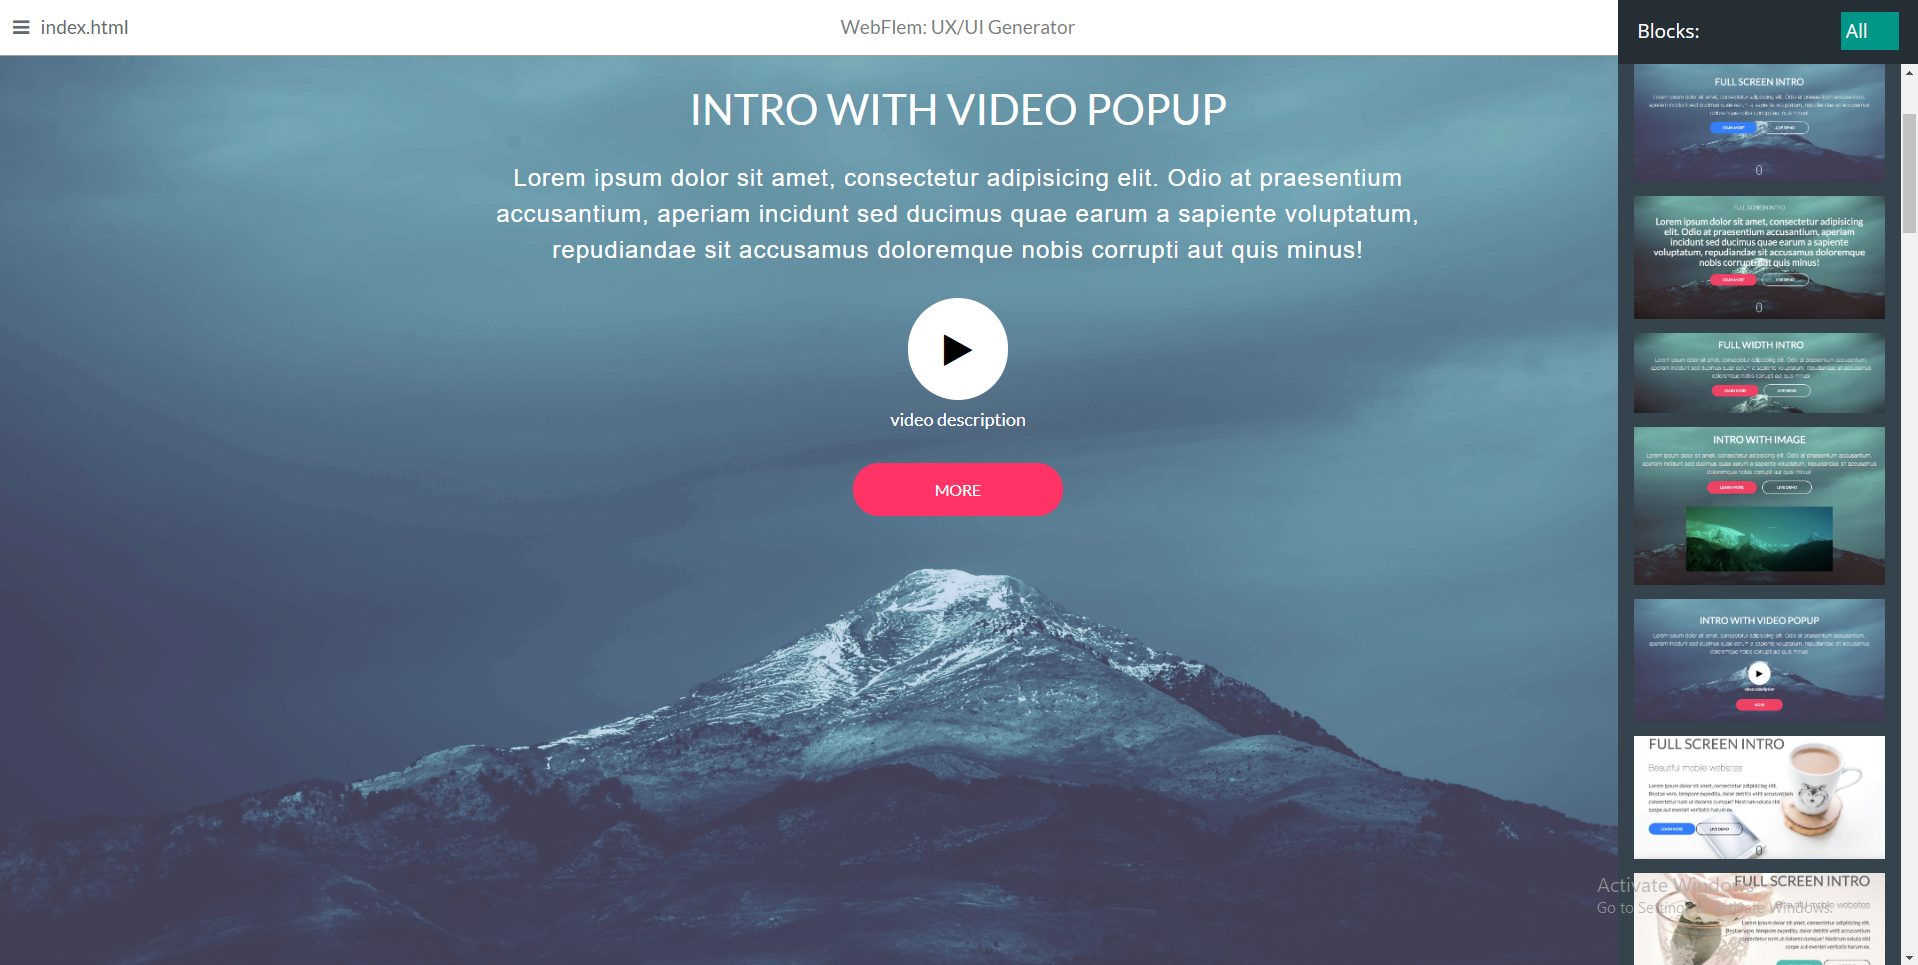
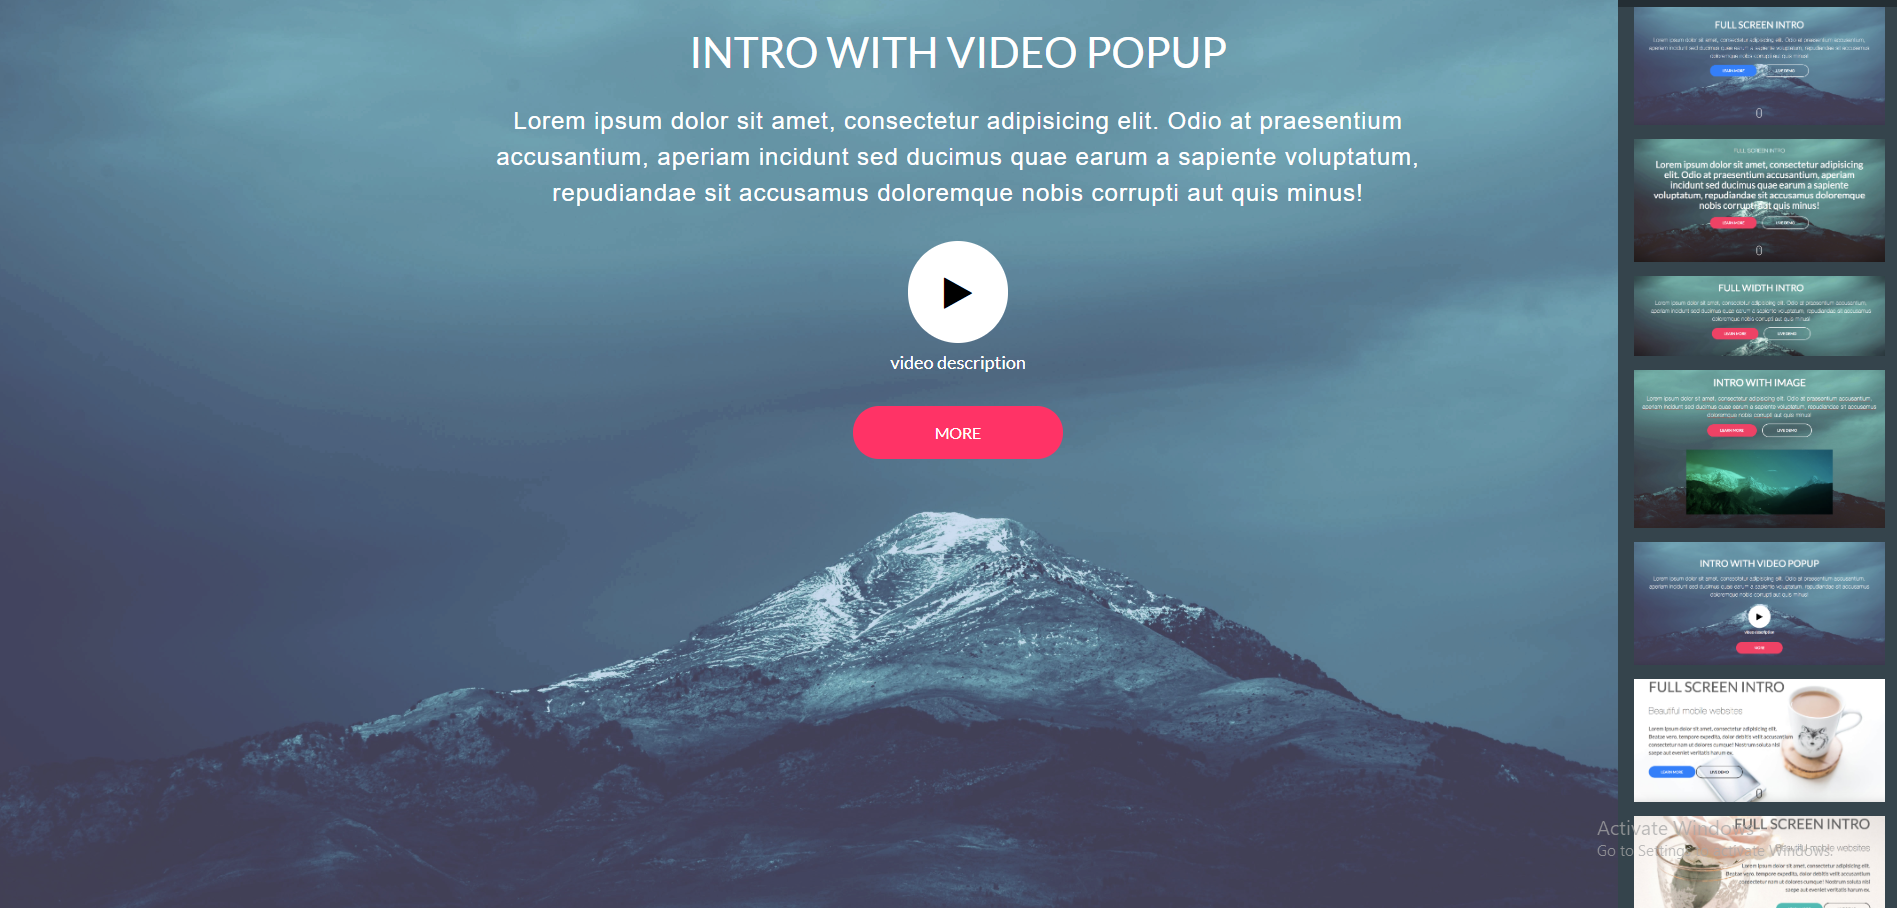
UI updation and fixing buttons

Changed region(s): [[0.0, 0.0, 1.0, 1.0], [0.7464, 0.8018, 0.8086, 0.8326], [0.5909, 0.8018, 0.622, 0.8326]]

diff --git a/webflem-server/client/index.html b/webflem-server/client/index.html
@@ -72,7 +72,7 @@
                   <p>
                     <a
                       class="btn--blue bounceInUp bounceInUp3s editable"
-                      href="#"
+                      href="app/"
                       title="Website Builder!!"
                     >
                       Get Started</a
@@ -83,11 +83,12 @@
                     <a
                       class="bounceInUp bounceInUp3s"
                       href="#"
-                      title="Webflem: UI/UX Generator!"
+                      title="Website Builder!"
                     >
                       <!-- src="img/screenshot.png" -->
+                      <!-- src="https://www.pensacolavoice.com/wp-content/uploads/2020/08/website-builder.jpg" -->
                       <img
-                        src="https://www.pensacolavoice.com/wp-content/uploads/2020/08/website-builder.jpg"
+                        src="img/screenshot.png"
                         alt="Polyrise"
                         style="margin: 0"
                         class=""

diff --git a/webflem-server/client/app/index.html b/webflem-server/client/app/index.html
@@ -53,7 +53,7 @@
         <i class="fa fa-download"></i>
       </a>
     </div>
-    <div class="topbar slideInDownDelay default header">WebFlem: UX/UI Generator.</div>
+    <div class="topbar slideInDownDelay default header">Website Builder</div>
 
     <!-- Custom wysiwyg editor -->
     <div class="topbar editorbar headereditorbar hide">
